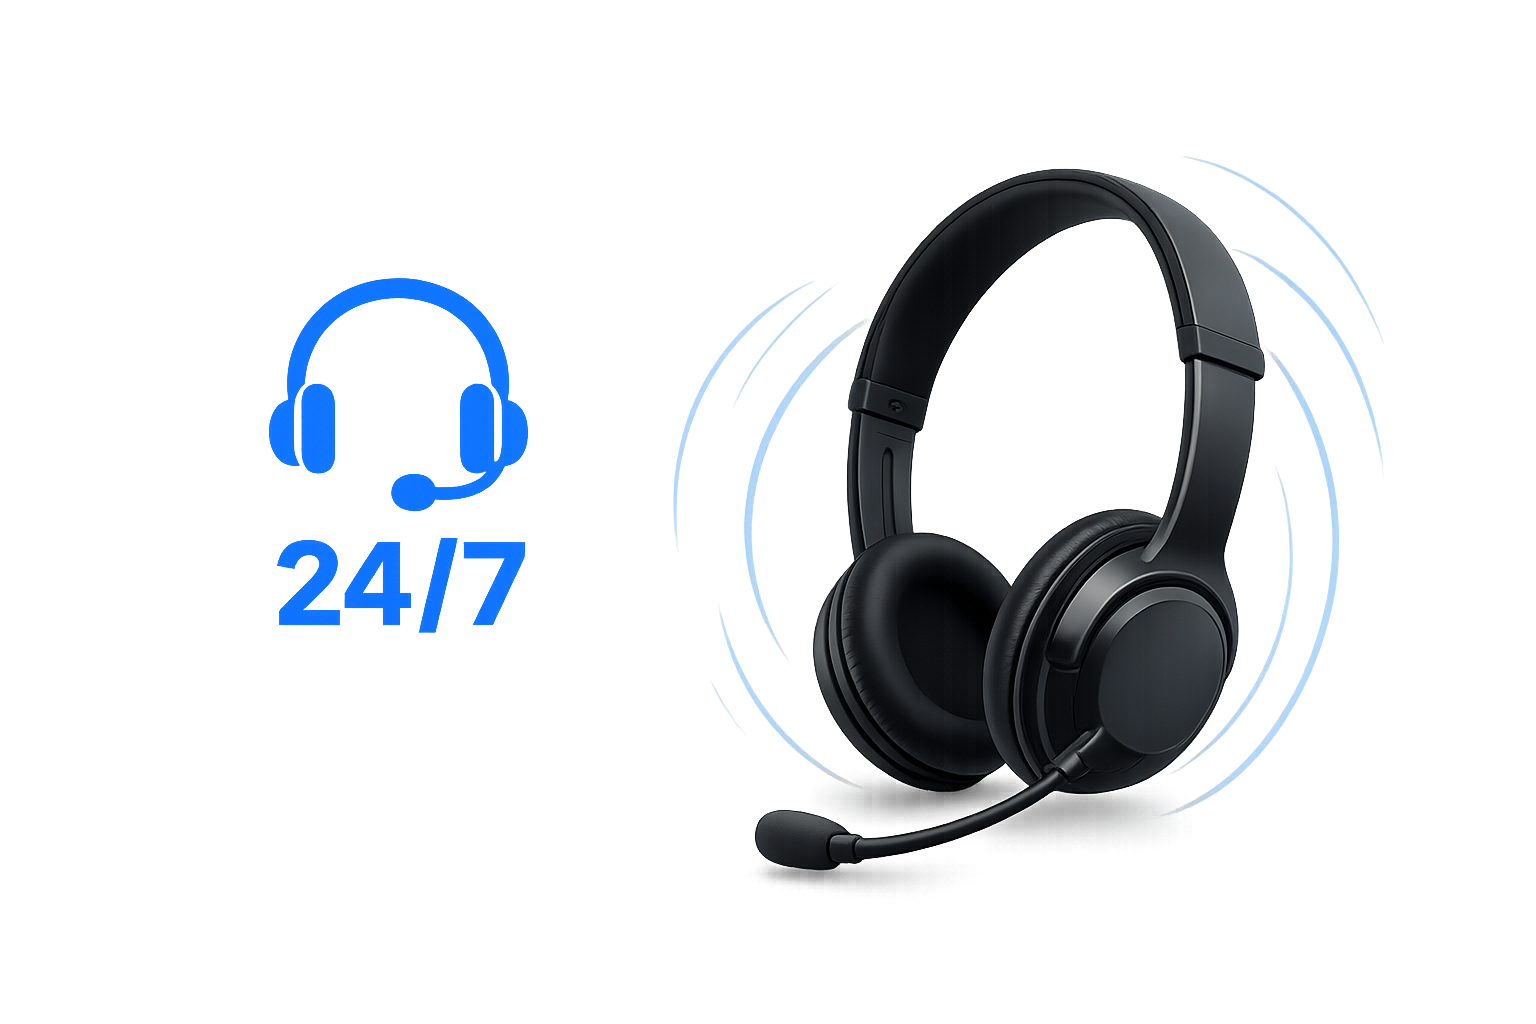
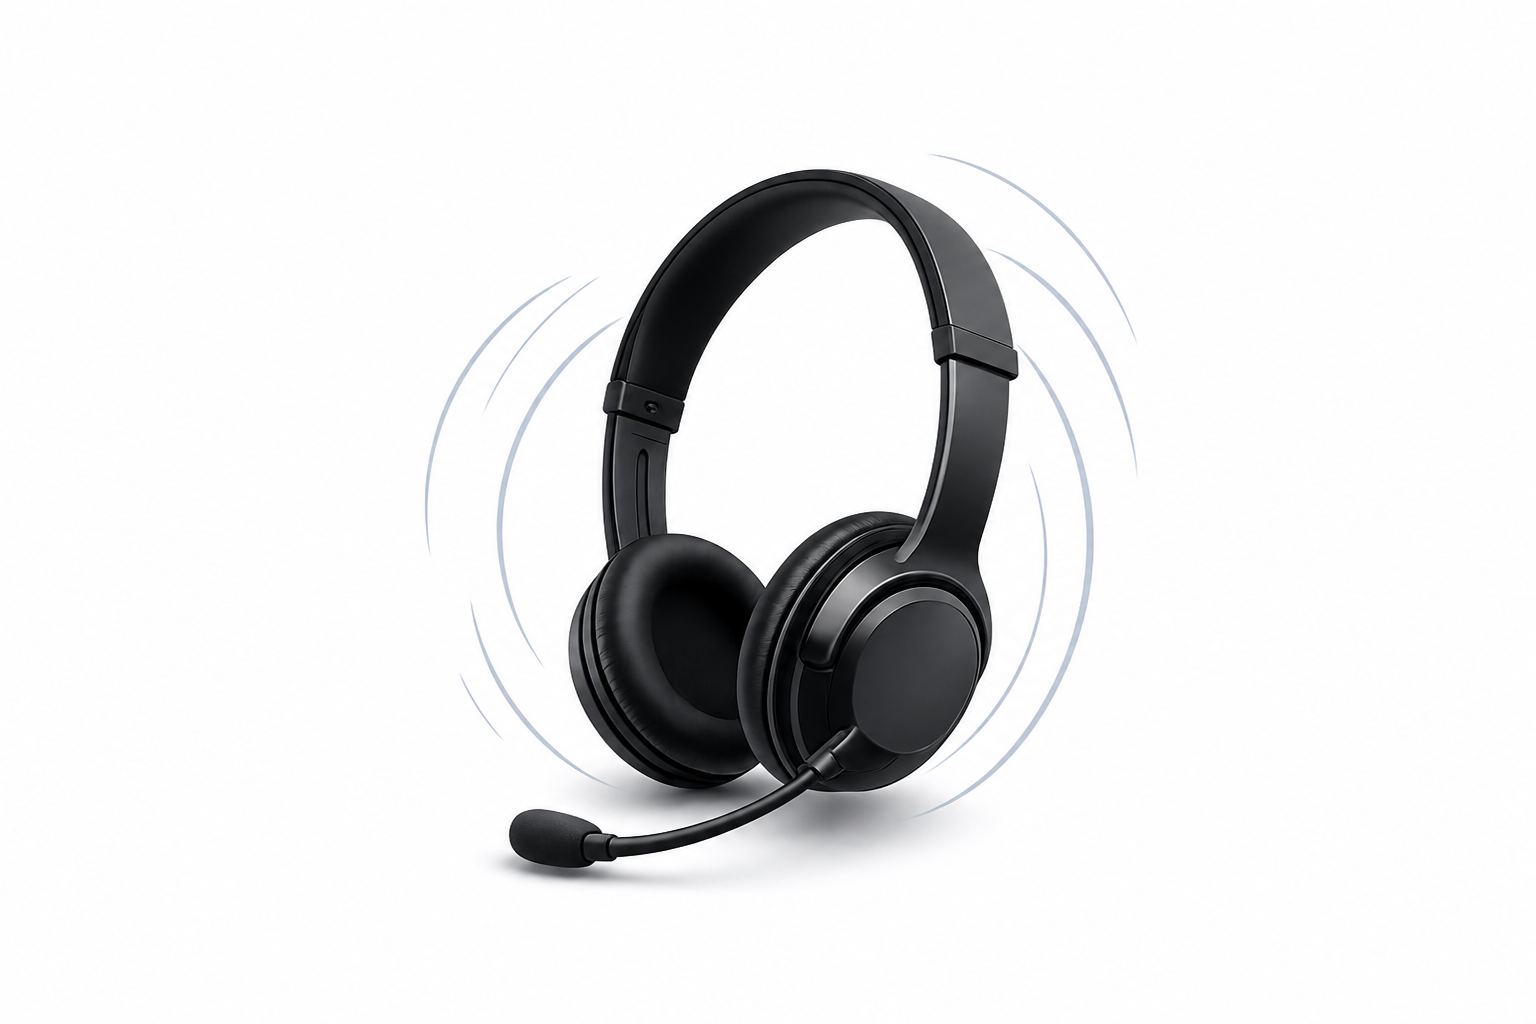
gps vehicle animation

diff --git a/src/components/site/GPSTracking.tsx b/src/components/site/GPSTracking.tsx
@@ -1,36 +1,165 @@
 "use client";
 
 import { Reveal } from "./Reveal";
+import { Activity, MapPin, Navigation2, Truck } from "lucide-react";
 import { motion } from "framer-motion";
-import { MapPin, Activity, Navigation2 } from "lucide-react";
+
+function PinMarker({
+  x,
+  y,
+  variant = "start",
+}: {
+  x: number;
+  y: number;
+  variant?: "start" | "end";
+}) {
+  return (
+    <g transform={`translate(${x} ${y})`}>
+      <path
+        d="M0 -25C-13 -25 -23 -15 -23 -2C-23 15 0 32 0 32S23 15 23 -2C23 -15 13 -25 0 -25Z"
+        fill="#080D14"
+      />
+      <circle cx="0" cy="-3" r="7" fill="#FFFFFF" />
+      {variant === "end" && <circle cx="0" cy="-3" r="3" fill="#080D14" />}
+    </g>
+  );
+}
+
+function TrackingVisual() {
+  const routePath =
+    "M 60 340 C 155 280, 220 225, 315 195 C 425 160, 510 125, 620 70";
+
+  return (
+    <div className="relative overflow-hidden rounded-[30px] border border-black/[0.06] bg-white shadow-[0_24px_70px_rgba(15,23,42,0.08)]">
+      <div className="relative h-[430px] overflow-hidden rounded-t-[30px] bg-white">
+        <div className="absolute inset-0 bg-[linear-gradient(rgba(15,23,42,0.035)_1px,transparent_1px),linear-gradient(90deg,rgba(15,23,42,0.035)_1px,transparent_1px)] bg-[size:28px_28px]" />
+
+        <svg
+          viewBox="0 0 700 430"
+          className="relative z-10 h-full w-full"
+          fill="none"
+          aria-hidden="true"
+        >
+          {Array.from({ length: 18 }).map((_, i) => {
+            const x = (i % 6) * 105 + 70;
+            const y = Math.floor(i / 6) * 105 + 60;
+
+            return (
+              <rect
+                key={i}
+                x={x}
+                y={y}
+                width="78"
+                height="82"
+                rx="10"
+                fill="#F1F3F5"
+                opacity="0.72"
+              />
+            );
+          })}
+
+          <motion.path
+            id="gpsRouteLine"
+            d={routePath}
+            stroke="#62666A"
+            strokeWidth="4"
+            fill="none"
+            strokeLinecap="round"
+            initial={{ pathLength: 0 }}
+            whileInView={{ pathLength: 1 }}
+            viewport={{ once: true }}
+            transition={{
+              duration: 1.6,
+              ease: [0.22, 0.7, 0.24, 1],
+            }}
+          />
+
+          <PinMarker x={60} y={340} variant="start" />
+          <PinMarker x={620} y={70} variant="end" />
+
+          <g>
+            <animateMotion
+              dur="7s"
+              repeatCount="indefinite"
+              rotate="0"
+              path={routePath}
+            />
+
+            <circle r="25" fill="#111827" opacity="0.14" />
+            <circle r="17" fill="#080D14" />
+
+            <foreignObject x="-11" y="-11" width="22" height="22">
+              <div className="flex h-[22px] w-[22px] items-center justify-center text-white">
+                <Truck className="h-[17px] w-[17px]" strokeWidth={2.1} />
+              </div>
+            </foreignObject>
+          </g>
+        </svg>
+      </div>
+
+      <div className="flex flex-wrap items-center justify-between gap-4 border-t border-black/[0.08] bg-white px-6 py-5">
+        <div className="flex items-center gap-2 text-sm">
+          <span className="size-2 rounded-full bg-[#111827]" />
+          <span className="text-[#667085]">Live</span>
+          <span className="font-semibold text-[#111827]">
+            Campaign #ADN-2410
+          </span>
+        </div>
+
+        <div className="text-sm font-medium text-[#667085]">
+          Chennai → T. Nagar → Anna Nagar → Velachery
+        </div>
+      </div>
+    </div>
+  );
+}
 
 export function GPSTracking() {
   return (
     <section className="section-pad">
-      <div className="container-x grid lg:grid-cols-12 gap-12 items-center">
+      <div className="container-x grid items-center gap-12 lg:grid-cols-12">
         <div className="lg:col-span-5">
-          <Reveal><div className="eyebrow">GPS Tracking</div></Reveal>
+          <Reveal>
+            <div className="eyebrow">GPS Tracking</div>
+          </Reveal>
+
           <Reveal delay={1}>
-            <h2 className="mt-3 text-4xl md:text-5xl font-display font-semibold leading-[1.05] text-balance-tight">
+            <h2 className="mt-3 font-display text-[34px] font-semibold leading-[1.05] text-balance-tight md:text-[44px]">
               Track your campaign with confidence
             </h2>
           </Reveal>
+
           <Reveal delay={2}>
-            <p className="mt-5 text-lg text-muted-foreground leading-relaxed">
-              GPS-supported visibility for routes, movement, and live execution updates.
+            <p className="mt-5 text-lg leading-relaxed text-muted-foreground">
+              GPS-supported visibility for routes, movement, and live execution
+              updates.
             </p>
           </Reveal>
+
           <Reveal delay={3}>
             <ul className="mt-8 space-y-4">
               {[
-                { i: Activity, t: "Real-time movement", d: "Live vehicle position on the campaign route." },
-                { i: Navigation2, t: "Route adherence", d: "Verify planned route execution." },
-                { i: MapPin, t: "Location reports", d: "Periodic check-ins and end-of-day reports." },
+                {
+                  i: Activity,
+                  t: "Real-time movement",
+                  d: "Live vehicle position on the campaign route.",
+                },
+                {
+                  i: Navigation2,
+                  t: "Route adherence",
+                  d: "Verify planned route execution.",
+                },
+                {
+                  i: MapPin,
+                  t: "Location reports",
+                  d: "Periodic check-ins and end-of-day reports.",
+                },
               ].map((f) => (
                 <li key={f.t} className="flex gap-4">
-                  <div className="size-10 rounded-xl bg-primary/10 text-primary flex items-center justify-center shrink-0">
-                    <f.i className="size-5" />
+                  <div className="flex size-10 shrink-0 items-center justify-center rounded-xl bg-[#E3000F]/10 text-[#E3000F]">
+                    <f.i className="size-5" strokeWidth={1.4} />
                   </div>
+
                   <div>
                     <div className="font-medium">{f.t}</div>
                     <p className="text-sm text-muted-foreground">{f.d}</p>
@@ -39,88 +168,32 @@ export function GPSTracking() {
               ))}
             </ul>
           </Reveal>
+
           <Reveal delay={4}>
-            <a href="#contact" className="btn-primary mt-9">Talk to Our Campaign Team</a>
+            <button
+              type="button"
+              className="btn-primary mt-9"
+              onClick={() => {
+                const contactSection = document.getElementById("contact");
+
+                if (contactSection) {
+                  contactSection.scrollIntoView({
+                    behavior: "smooth",
+                    block: "start",
+                  });
+                }
+
+                window.history.replaceState(null, "", window.location.pathname);
+              }}
+            >
+              Talk to Our Campaign Team
+            </button>
           </Reveal>
         </div>
 
         <div className="lg:col-span-7">
           <Reveal delay={2}>
-            <div className="relative card-premium p-6 md:p-8 overflow-hidden">
-              <div className="absolute inset-0 opacity-[0.5]"
-                style={{
-                  backgroundImage:
-                    "linear-gradient(to right, color-mix(in oklab, var(--color-foreground) 4%, transparent) 1px, transparent 1px), linear-gradient(to bottom, color-mix(in oklab, var(--color-foreground) 4%, transparent) 1px, transparent 1px)",
-                  backgroundSize: "32px 32px",
-                }}
-              />
-              <svg
-                viewBox="0 0 600 400"
-                className="relative w-full h-auto"
-                aria-hidden
-              >
-                <defs>
-                  <linearGradient id="route" x1="0" y1="0" x2="1" y2="1">
-                    <stop offset="0%" stopColor="var(--color-primary)" stopOpacity="0.2" />
-                    <stop offset="100%" stopColor="var(--color-primary)" stopOpacity="1" />
-                  </linearGradient>
-                </defs>
-                {/* city blocks */}
-                {Array.from({ length: 18 }).map((_, i) => {
-                  const x = (i % 6) * 95 + 30;
-                  const y = Math.floor(i / 6) * 110 + 40;
-                  return (
-                    <rect
-                      key={i}
-                      x={x} y={y} width="70" height="80" rx="8"
-                      fill="currentColor" className="text-foreground/[0.04]"
-                    />
-                  );
-                })}
-                {/* route */}
-                <motion.path
-                  d="M 40 340 C 140 280, 180 240, 260 220 S 420 180, 520 80"
-                  stroke="url(#route)"
-                  strokeWidth="3"
-                  fill="none"
-                  strokeLinecap="round"
-                  initial={{ pathLength: 0 }}
-                  whileInView={{ pathLength: 1 }}
-                  viewport={{ once: true }}
-                  transition={{ duration: 2.2, ease: [0.2, 0.7, 0.2, 1] }}
-                />
-                {/* start pin */}
-                <circle cx="40" cy="340" r="6" fill="var(--color-primary)" />
-                <circle cx="40" cy="340" r="14" fill="var(--color-primary)" opacity="0.2" />
-                {/* moving marker */}
-                <motion.g
-                  initial={{ offsetDistance: "0%" }}
-                  whileInView={{ offsetDistance: "100%" }}
-                  viewport={{ once: true }}
-                  transition={{ duration: 4, ease: "easeInOut", repeat: Infinity, repeatType: "loop" }}
-                  style={{
-                    offsetPath:
-                      "path('M 40 340 C 140 280, 180 240, 260 220 S 420 180, 520 80')",
-                  }}
-                >
-                  <circle r="10" fill="var(--color-primary)" />
-                  <circle r="18" fill="var(--color-primary)" opacity="0.25" />
-                </motion.g>
-                {/* end pin */}
-                <circle cx="520" cy="80" r="6" fill="var(--color-foreground)" />
-              </svg>
-
-              <div className="relative mt-2 flex flex-wrap items-center justify-between gap-4 pt-4 border-t border-border">
-                <div className="flex items-center gap-2 text-sm">
-                  <span className="size-2 rounded-full bg-primary animate-pulse" />
-                  <span className="text-muted-foreground">Live</span>
-                  <span className="font-medium">Campaign #ADN-2410</span>
-                </div>
-                <div className="text-sm text-muted-foreground">
-                  Chennai → T. Nagar → Anna Nagar → Velachery
-                </div>
-              </div>
-            </div>
+            <TrackingVisual />
           </Reveal>
         </div>
       </div>